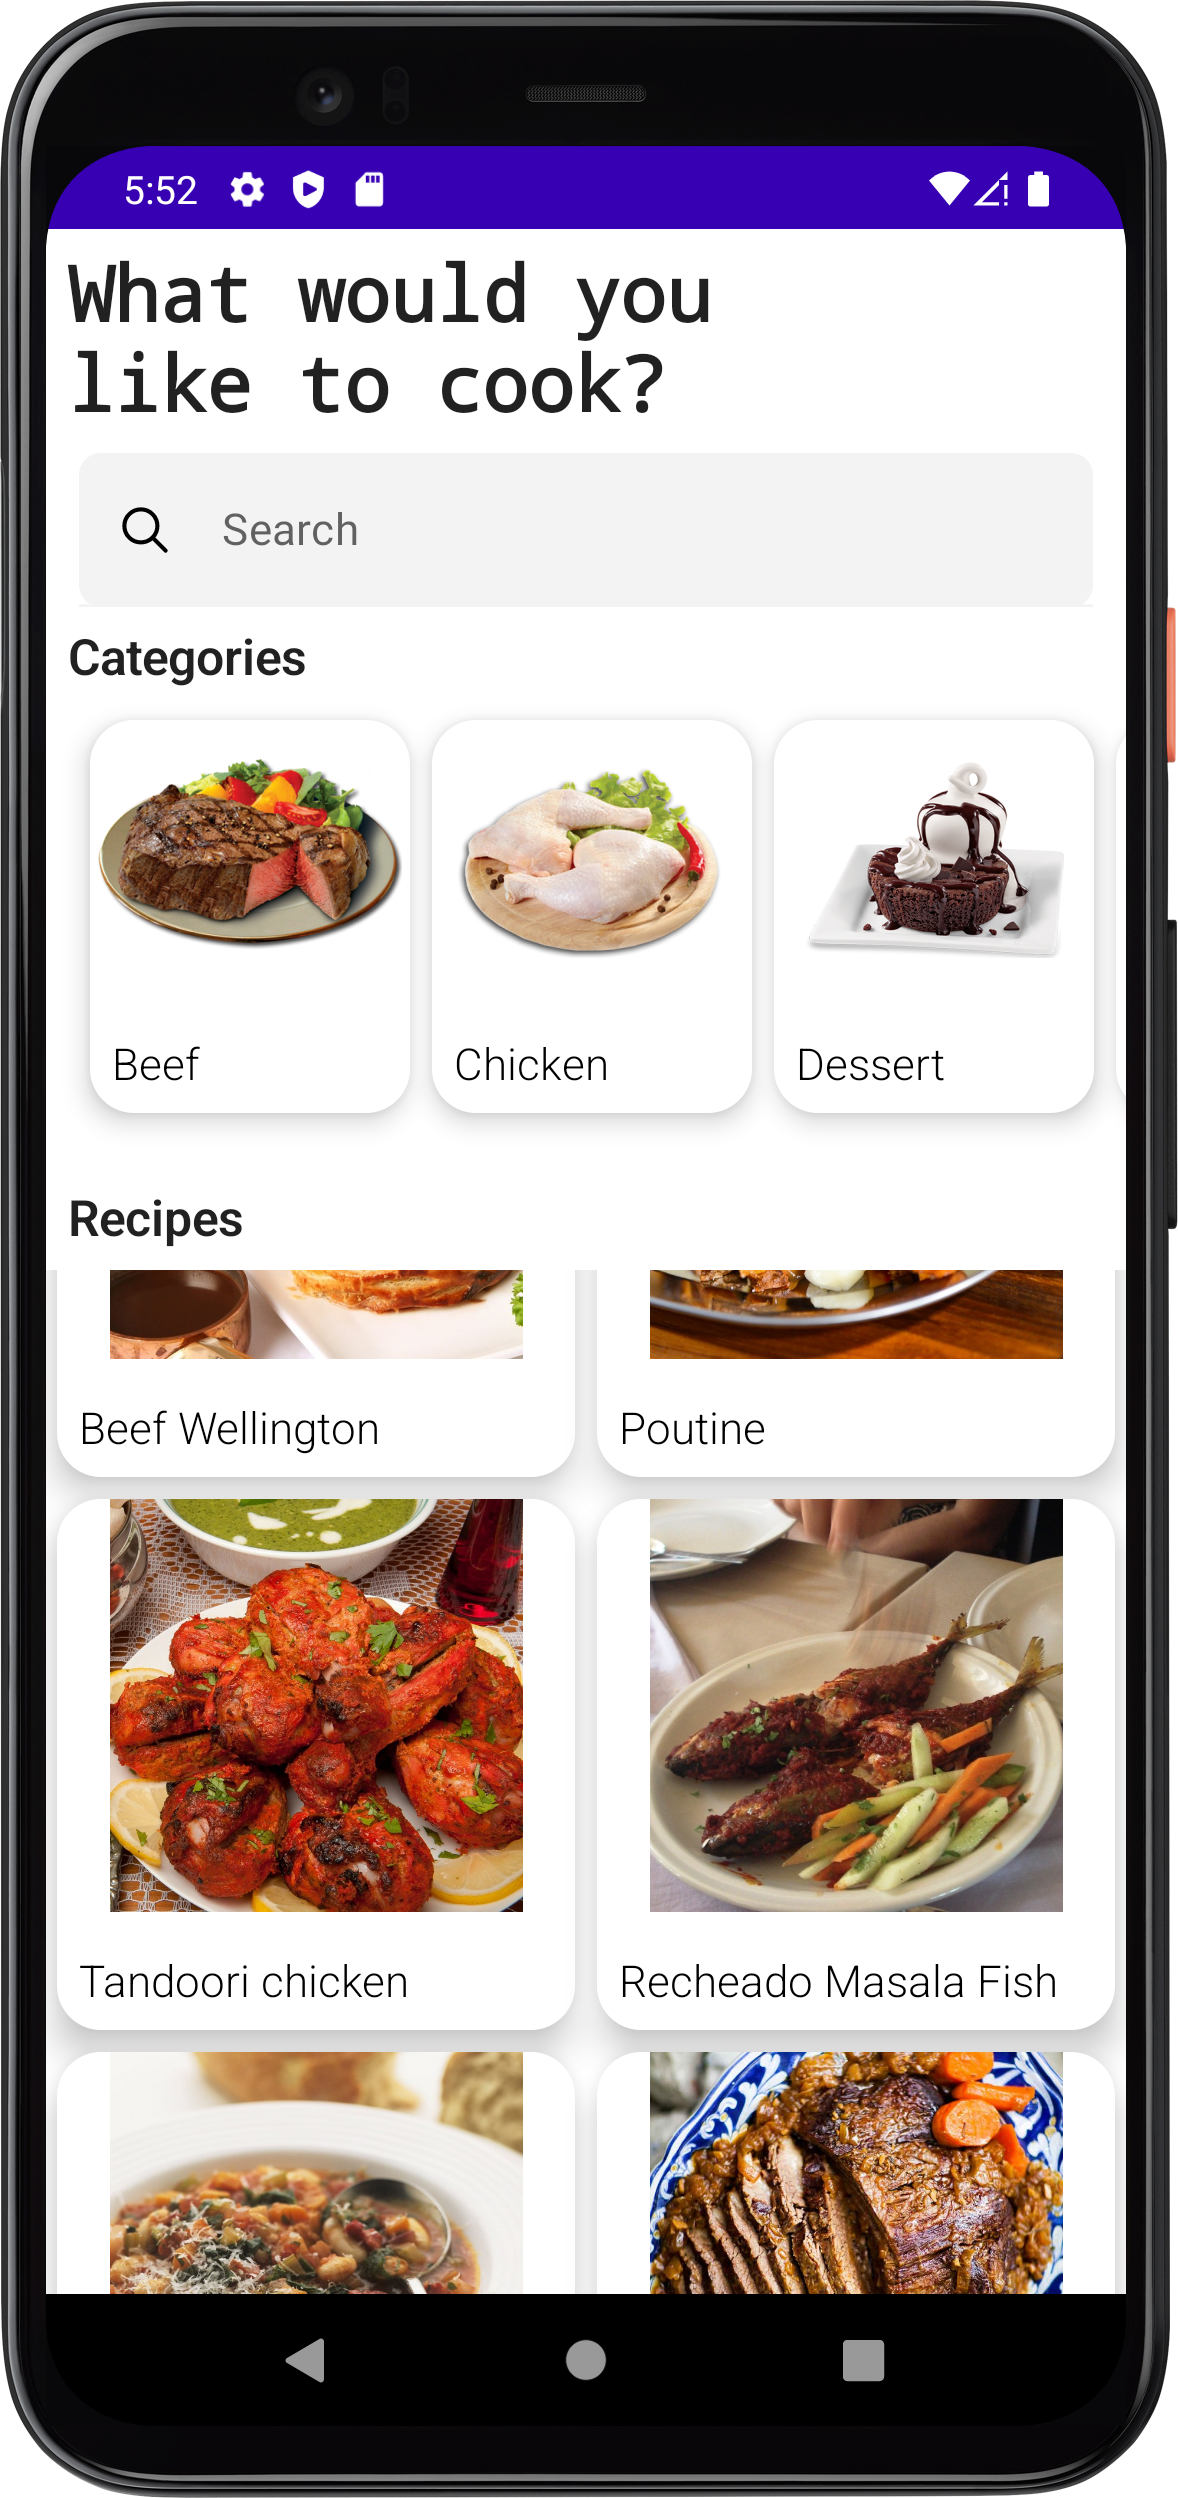
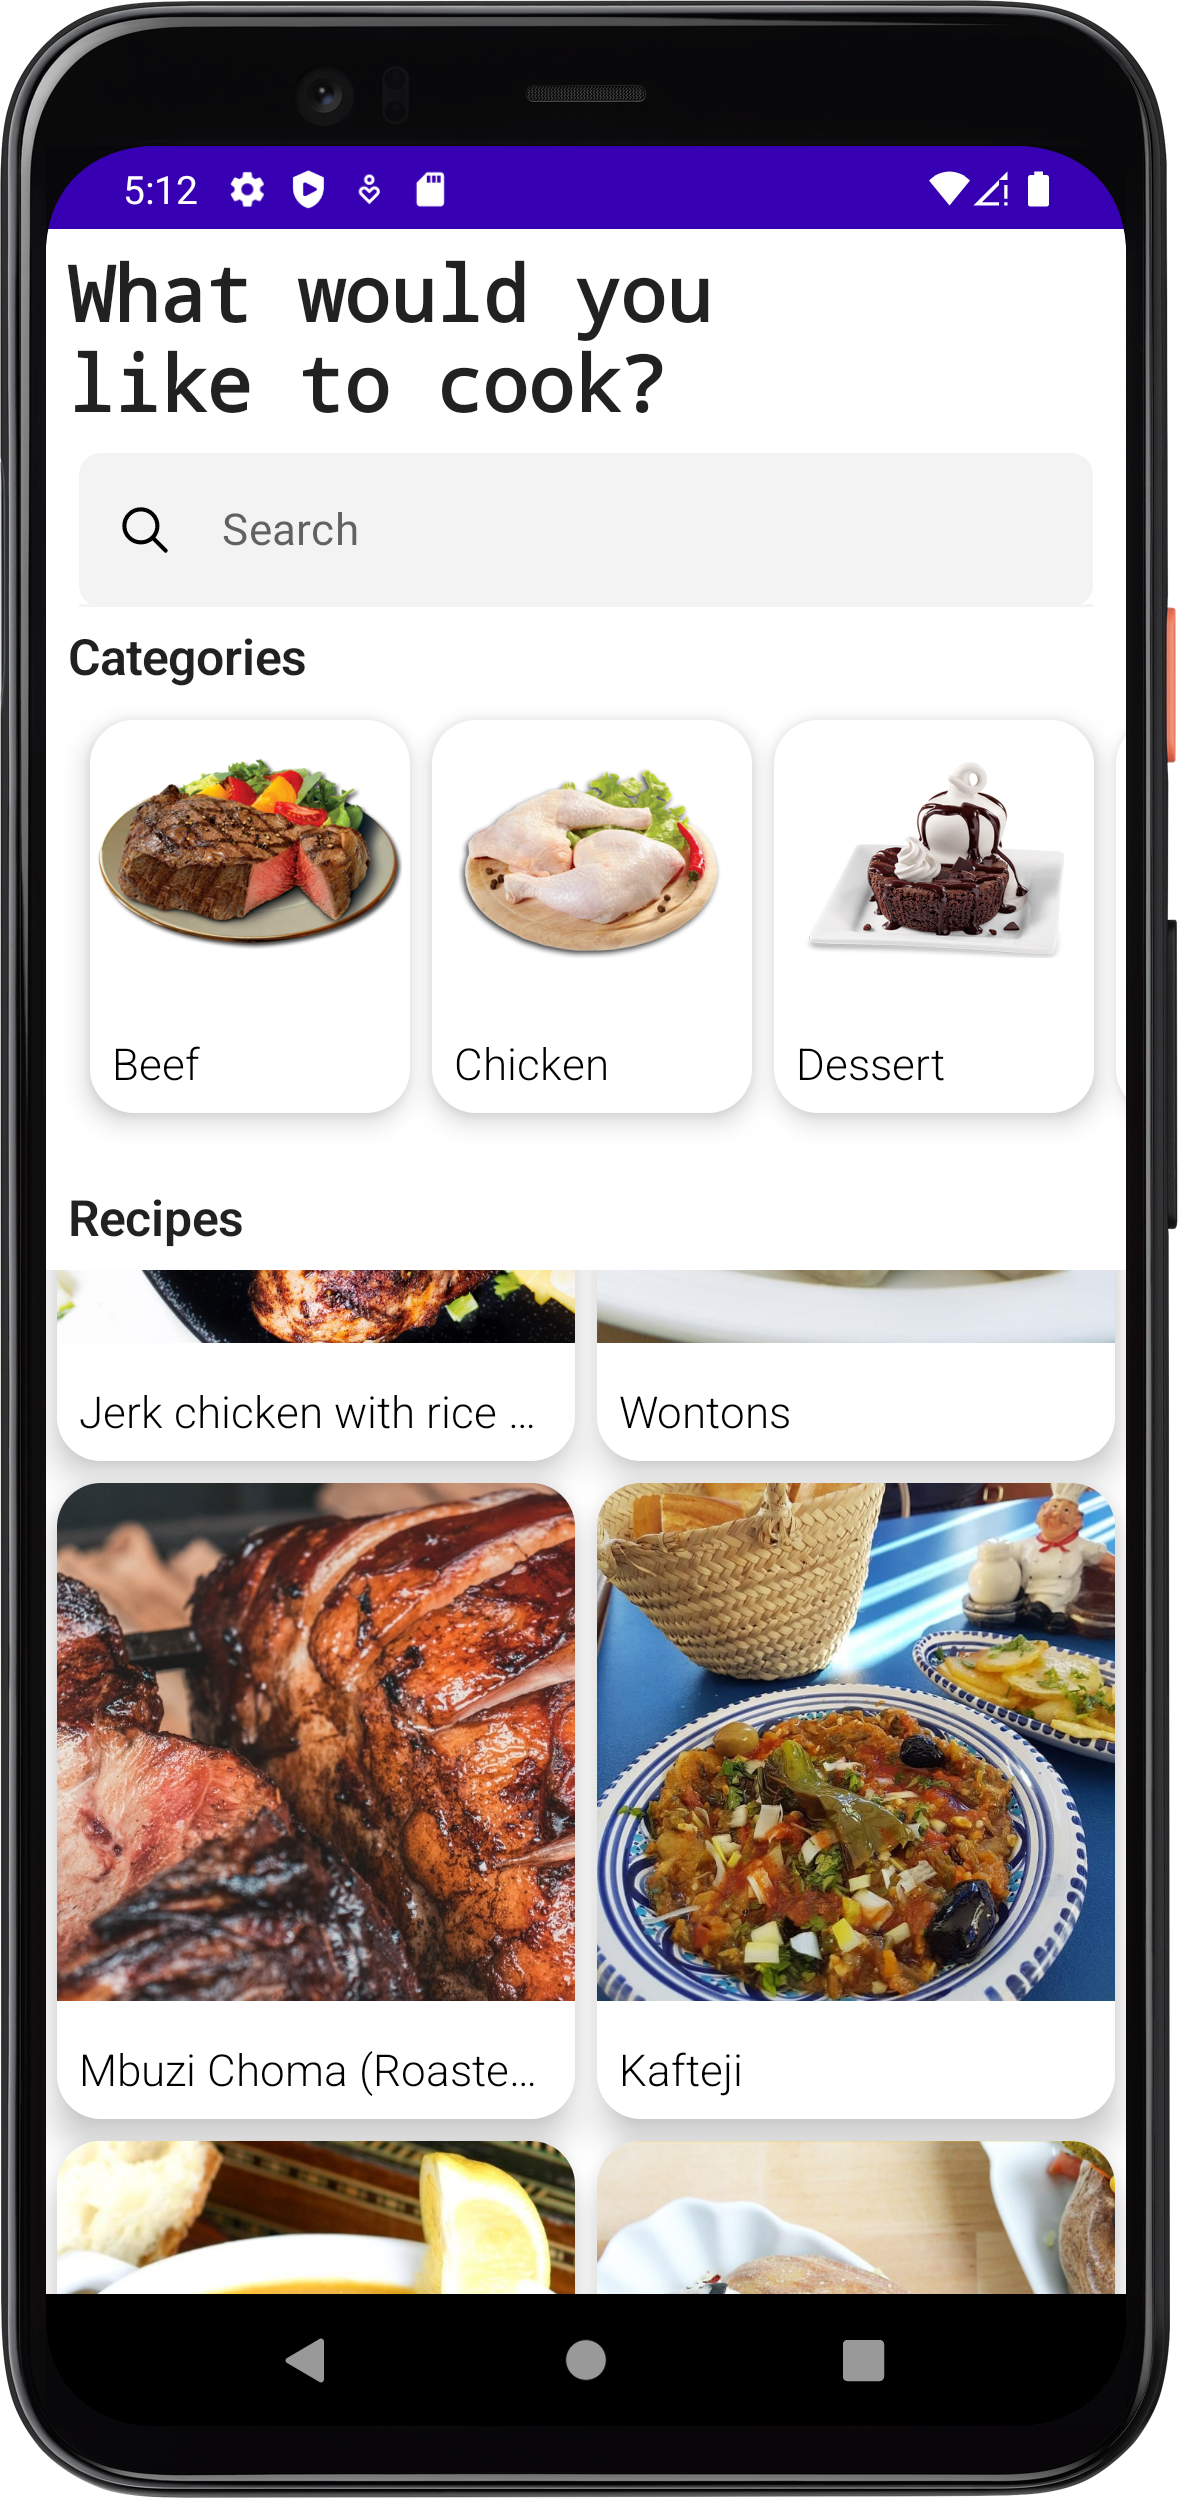
fill image

diff --git a/app/src/main/java/com/flexcode/yummy/presentation/meals_screen/MealItem.kt b/app/src/main/java/com/flexcode/yummy/presentation/meals_screen/MealItem.kt
@@ -1,5 +1,7 @@
-package com.flexcode.yummy.presentation
+package com.flexcode.yummy.presentation.meals_screen
 
+
+import androidx.compose.foundation.Image
 import androidx.compose.foundation.clickable
 import androidx.compose.foundation.layout.*
 import androidx.compose.foundation.shape.RoundedCornerShape
@@ -16,45 +18,74 @@ import androidx.compose.ui.text.style.TextOverflow
 import androidx.compose.ui.unit.dp
 import androidx.compose.ui.unit.sp
 import coil.compose.AsyncImage
+import coil.compose.rememberAsyncImagePainter
 import coil.request.ImageRequest
-import com.flexcode.yummy.domain.models.Categories
+import coil.size.Size
+import coil.size.Size.Companion.ORIGINAL
+import com.flexcode.yummy.domain.models.Meals
+import com.flexcode.yummy.presentation.destinations.MealDetailsScreenDestination
+import com.flexcode.yummy.presentation.destinations.MealsScreenDestination
+import com.ramcosta.composedestinations.navigation.DestinationsNavigator
 
 @Composable
-fun CategoryItem(
-    category: Categories,
-    modifier: Modifier = Modifier
+fun MealItem(
+    meals: Meals,
+    modifier: Modifier = Modifier,
+    navigator: DestinationsNavigator
 ) {
     Card(
         modifier = modifier
             .padding(4.dp)
             .clickable {
-
+                /*navigator.navigate(
+                    MealDetailsScreenDestination(
+                        Meals(idMeal = meals.idMeal)
+                    )
+                ){
+                    popUpTo(route = MealsScreenDestination.routeId){
+                        inclusive = true
+                    }
+                }*/
+                navigator.navigate(MealDetailsScreenDestination(meals))
             }
         ,
         shape = RoundedCornerShape(16.dp),
-        elevation = 7.dp
+        elevation = 10.dp
     ) {
         Column(
             modifier = Modifier,
             horizontalAlignment = Alignment.Start
         ) {
 
-            AsyncImage(
+            val model = ImageRequest.Builder(LocalContext.current)
+                .data("${meals.strMealThumb}")
+                .size(Size.ORIGINAL)
+                .crossfade(true)
+                .build()
+            val painter = rememberAsyncImagePainter(model)
+            Image(
+                modifier = Modifier.fillMaxWidth(),
+                painter = painter,
+                contentDescription = null,
+                contentScale = ContentScale.FillWidth
+            )
+
+            /*AsyncImage(
                 model = ImageRequest.Builder(LocalContext.current)
-                    .data("${category.strCategoryThumb}")
+                    .data("${meals.strMealThumb}")
                     .crossfade(true)
                     .build(),
-                contentDescription = "${category.strCategory}",
+                contentDescription = "${meals.strMeal}",
                 contentScale = ContentScale.Inside,
                 modifier = modifier
-                    .height(100.dp)
+                    .height(150.dp)
                     .fillMaxWidth()
                     .align(Alignment.CenterHorizontally)
                     .clickable {
 
                     }
                     .wrapContentSize(),
-            )
+            )*/
 
             Spacer(modifier = Modifier.height(8.dp))
 
@@ -62,7 +93,7 @@ fun CategoryItem(
                 .fillMaxWidth()
                 .padding(8.dp)) {
                 Text(
-                    text = "${category.strCategory}",
+                    text = "${meals.strMeal}",
                     fontWeight = FontWeight.Light,
                     fontSize = 16.sp,
                     color = MaterialTheme.colors.onBackground,
@@ -70,6 +101,7 @@ fun CategoryItem(
                     maxLines = 1,
                 )
             }
+
 
         }
     }

diff --git a/app/src/main/java/com/flexcode/yummy/presentation/meals_screen/CategoryItem.kt b/app/src/main/java/com/flexcode/yummy/presentation/meals_screen/CategoryItem.kt
@@ -1,4 +1,4 @@
-package com.flexcode.yummy.presentation
+package com.flexcode.yummy.presentation.meals_screen
 
 import androidx.compose.foundation.clickable
 import androidx.compose.foundation.layout.*
@@ -17,35 +17,22 @@ import androidx.compose.ui.unit.dp
 import androidx.compose.ui.unit.sp
 import coil.compose.AsyncImage
 import coil.request.ImageRequest
-import com.flexcode.yummy.domain.models.Meals
-import com.flexcode.yummy.presentation.destinations.MealDetailsScreenDestination
-import com.flexcode.yummy.presentation.destinations.MealsScreenDestination
-import com.ramcosta.composedestinations.navigation.DestinationsNavigator
+import com.flexcode.yummy.domain.models.Categories
 
 @Composable
-fun MealItem(
-    meals: Meals,
-    modifier: Modifier = Modifier,
-    navigator: DestinationsNavigator
+fun CategoryItem(
+    category: Categories,
+    modifier: Modifier = Modifier
 ) {
     Card(
         modifier = modifier
             .padding(4.dp)
             .clickable {
-                /*navigator.navigate(
-                    MealDetailsScreenDestination(
-                        Meals(idMeal = meals.idMeal)
-                    )
-                ){
-                    popUpTo(route = MealsScreenDestination.routeId){
-                        inclusive = true
-                    }
-                }*/
-                navigator.navigate(MealDetailsScreenDestination(meals))
+
             }
         ,
         shape = RoundedCornerShape(16.dp),
-        elevation = 10.dp
+        elevation = 7.dp
     ) {
         Column(
             modifier = Modifier,
@@ -54,13 +41,13 @@ fun MealItem(
 
             AsyncImage(
                 model = ImageRequest.Builder(LocalContext.current)
-                    .data("${meals.strMealThumb}")
+                    .data("${category.strCategoryThumb}")
                     .crossfade(true)
                     .build(),
-                contentDescription = "${meals.strMeal}",
+                contentDescription = "${category.strCategory}",
                 contentScale = ContentScale.Inside,
                 modifier = modifier
-                    .height(150.dp)
+                    .height(100.dp)
                     .fillMaxWidth()
                     .align(Alignment.CenterHorizontally)
                     .clickable {
@@ -75,7 +62,7 @@ fun MealItem(
                 .fillMaxWidth()
                 .padding(8.dp)) {
                 Text(
-                    text = "${meals.strMeal}",
+                    text = "${category.strCategory}",
                     fontWeight = FontWeight.Light,
                     fontSize = 16.sp,
                     color = MaterialTheme.colors.onBackground,
@@ -83,7 +70,6 @@ fun MealItem(
                     maxLines = 1,
                 )
             }
-
 
         }
     }

diff --git a/app/src/main/java/com/flexcode/yummy/presentation/meal_details/DetailsItem.kt b/app/src/main/java/com/flexcode/yummy/presentation/meal_details/DetailsItem.kt
@@ -22,6 +22,7 @@ import androidx.compose.ui.unit.dp
 import androidx.compose.ui.unit.sp
 import coil.compose.rememberAsyncImagePainter
 import coil.request.ImageRequest
+import coil.size.Size
 import com.flexcode.yummy.R
 import com.flexcode.yummy.domain.models.Meals
 import com.ramcosta.composedestinations.navigation.DestinationsNavigator
@@ -69,8 +70,20 @@ fun DetailsItem(
         }
         Column(modifier = modifier
             .fillMaxWidth()
-            .height(200.dp), horizontalAlignment = CenterHorizontally) {
+            .height(300.dp), horizontalAlignment = CenterHorizontally) {
+            val model = ImageRequest.Builder(LocalContext.current)
+                .data("${meals.strMealThumb}")
+                .size(Size.ORIGINAL)
+                .crossfade(true)
+                .build()
+            val painter = rememberAsyncImagePainter(model)
             Image(
+                modifier = Modifier.fillMaxWidth(),
+                painter = painter,
+                contentDescription = null,
+                contentScale = ContentScale.FillWidth
+            )
+            /*Image(
                 painter = rememberAsyncImagePainter(
                     ImageRequest.Builder(LocalContext.current)
                         .data(data = meals.strMealThumb)
@@ -82,7 +95,7 @@ fun DetailsItem(
                 contentDescription = null,
                 modifier = modifier.align(CenterHorizontally),
                 contentScale = ContentScale.Fit
-            )
+            )*/
 
         }
         Text(

diff --git a/app/src/main/java/com/flexcode/yummy/presentation/meals_screen/MealsScreen.kt b/app/src/main/java/com/flexcode/yummy/presentation/meals_screen/MealsScreen.kt
@@ -1,4 +1,4 @@
-package com.flexcode.yummy.presentation
+package com.flexcode.yummy.presentation.meals_screen
 
 import androidx.compose.foundation.background
 import androidx.compose.foundation.clickable
@@ -24,7 +24,6 @@ import androidx.compose.ui.unit.sp
 import androidx.hilt.navigation.compose.hiltViewModel
 import com.flexcode.yummy.R
 import com.flexcode.yummy.domain.models.Categories
-import com.flexcode.yummy.presentation.destinations.MealDetailsScreenDestination
 import com.flexcode.yummy.ui.theme.BackgroundColor
 import com.google.accompanist.swiperefresh.SwipeRefresh
 import com.google.accompanist.swiperefresh.rememberSwipeRefreshState

diff --git a/app/src/main/java/com/flexcode/yummy/presentation/meals_screen/MealsViewModel.kt b/app/src/main/java/com/flexcode/yummy/presentation/meals_screen/MealsViewModel.kt
@@ -1,4 +1,4 @@
-package com.flexcode.yummy.presentation
+package com.flexcode.yummy.presentation.meals_screen
 
 import androidx.compose.runtime.State
 import androidx.compose.runtime.getValue
@@ -16,7 +16,6 @@ import kotlinx.coroutines.Job
 import kotlinx.coroutines.delay
 import kotlinx.coroutines.flow.MutableSharedFlow
 import kotlinx.coroutines.flow.asSharedFlow
-import kotlinx.coroutines.flow.collect
 import kotlinx.coroutines.launch
 import javax.inject.Inject
 

diff --git a/app/src/main/java/com/flexcode/yummy/presentation/meals_screen/MealsState.kt b/app/src/main/java/com/flexcode/yummy/presentation/meals_screen/MealsState.kt
@@ -1,4 +1,4 @@
-package com.flexcode.yummy.presentation
+package com.flexcode.yummy.presentation.meals_screen
 
 import com.flexcode.yummy.domain.models.Categories
 import com.flexcode.yummy.domain.models.Meals

diff --git a/app/src/main/java/com/flexcode/yummy/presentation/meals_screen/MealsEvent.kt b/app/src/main/java/com/flexcode/yummy/presentation/meals_screen/MealsEvent.kt
@@ -1,0 +1,6 @@
+package com.flexcode.yummy.presentation.meals_screen
+
+sealed class MealsEvent {
+    data class OnSearchMeal(val meal:String): MealsEvent()
+    object Refresh: MealsEvent()
+}

diff --git a/app/src/main/java/com/flexcode/yummy/presentation/meals_screen/CategoriesState.kt b/app/src/main/java/com/flexcode/yummy/presentation/meals_screen/CategoriesState.kt
@@ -1,4 +1,4 @@
-package com.flexcode.yummy.presentation
+package com.flexcode.yummy.presentation.meals_screen
 
 import com.flexcode.yummy.domain.models.Categories
 
